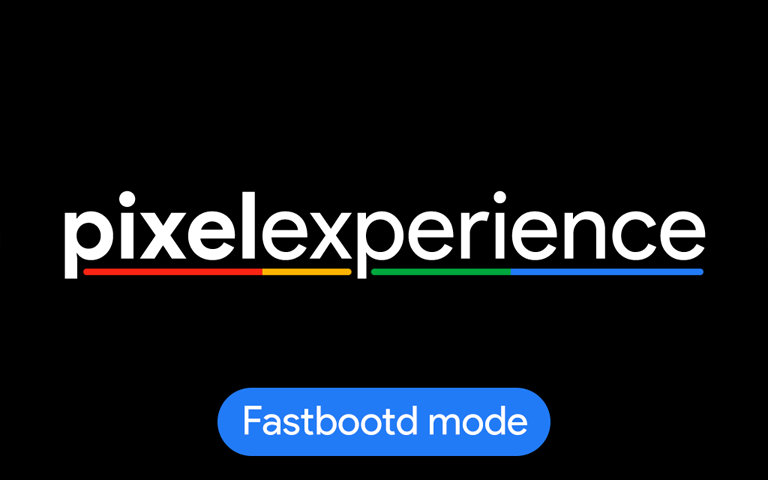
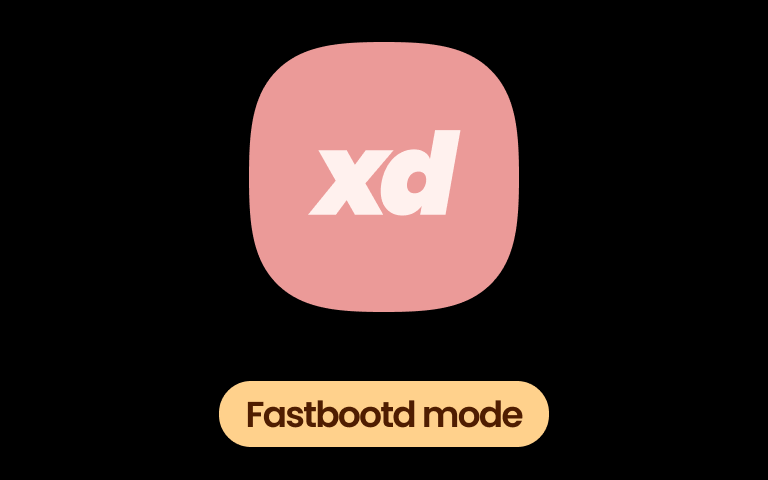
[SQUASH] Recovery UI changes for xdroidOSS
* Update Recovery image assets

* Update Recovery image assets to use 24 Bit Depth instead of 32

* Replace Back button UI

* Replace the old back button UI to new one

Changed region(s): [[0.0625, 0.0625, 0.9375, 0.6562], [0.2812, 0.7812, 0.7188, 0.9688]]

diff --git a/recovery_ui/screen_ui.cpp b/recovery_ui/screen_ui.cpp
@@ -564,21 +564,21 @@ void ScreenRecoveryUI::draw_foreground_locked() {
   }
 }
 
-/* pixel blue: #227BF6 */
+/* xdroid color: #EB9A98 */
 void ScreenRecoveryUI::SetColor(UIElement e) const {
   switch (e) {
     case UIElement::INFO:
-        gr_color(0x22, 0x7b, 0xf6, 255);
+        gr_color(0xeb, 0x9a, 0x98, 255);
       break;
     case UIElement::HEADER:
-        gr_color(0x22, 0x7b, 0xf6, 255);
+        gr_color(0xeb, 0x9a, 0x98, 255);
       break;
     case UIElement::MENU:
       gr_color(0xd8, 0xd8, 0xd8, 255);
       break;
     case UIElement::MENU_SEL_BG:
     case UIElement::SCROLLBAR:
-        gr_color(0x22, 0x7b, 0xf6, 255);
+        gr_color(0xeb, 0x9a, 0x98, 255);
       break;
     case UIElement::MENU_SEL_BG_ACTIVE:
       gr_color(0, 156, 100, 255);
